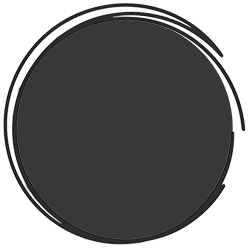
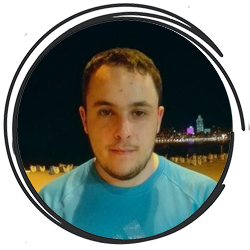
Codacy and updated img

diff --git a/src/containers/Home/components/ShareComponent/ShareComponent.js b/src/containers/Home/components/ShareComponent/ShareComponent.js
@@ -1,11 +1,11 @@
-import React, { useState } from 'react';
-import i18n from '../../../../i18n'
-import { Button, Select, MenuItem } from '@material-ui/core';
-import { useLDflexList, Value } from '@solid/react';
-import { ShareWrapper } from './ShareComponent.style';
+import React, { useState } from "react";
+import i18n from "../../../../i18n";
+import { Button, Select, MenuItem } from "@material-ui/core";
+import { useLDflexList, Value } from "@solid/react";
+import { ShareWrapper } from "./ShareComponent.style";
 
-import gestorPOD from '../../../../services/persistanceManagement';
-import { toast } from 'react-toastify';
+import gestorPOD from "../../../../services/persistanceManagement";
+import { toast } from "react-toastify";
 
 function ListFriends(props) {
 
@@ -13,7 +13,7 @@ function ListFriends(props) {
 
 
     function getFriends() {
-        const friends = useLDflexList('user.friends');
+        const friends = useLDflexList("user.friends");
         return friends;
     };
 
@@ -35,7 +35,7 @@ function ListFriends(props) {
 
 const listFriendsStyle = {
     minWidth: "200px",
-    marginRight: '10px',
+    marginRight: "10px",
 };
 
 export default class ShareComponent extends React.Component {
@@ -55,7 +55,7 @@ export default class ShareComponent extends React.Component {
     }
 
     setSelectedFriend(newSelectedFriend) {
-        this.setState({ selectedFriend: newSelectedFriend })
+        this.setState({ selectedFriend: newSelectedFriend });
     }
 
     buttonClicked() {
@@ -72,9 +72,9 @@ export default class ShareComponent extends React.Component {
             this.props.route === undefined ? <ShareWrapper id="share"></ShareWrapper> :
                 <ShareWrapper id="share">
                     <div>
-                        <p>{i18n.t('home.share_text')}</p>
+                        <p>{i18n.t("home.share_text")}</p>
                         <ListFriends setSelectedFriend={this.setSelectedFriend}></ListFriends>
-                        <Button onClick={this.buttonClicked} variant="contained" color="primary">{i18n.t('home.share_route')}</Button>
+                        <Button onClick={this.buttonClicked} variant="contained" color="primary">{i18n.t("home.share_route")}</Button>
                     </div>
                 </ShareWrapper>
         );

diff --git a/src/services/persistanceManagement.js b/src/services/persistanceManagement.js
@@ -123,9 +123,7 @@ export default {
         await fc.createFile(urlUser + "/" + idNoSpaces + ".gpx", route.gpx, "application/gpx+xml", {withAcl:false});
 
         for (var i = 0; i < route.images.length; i++) {
-            console.log(route.images);
             var image = route.images[i];
-            console.log(image)
             await fc.createFile(urlUser + "/" + idNoSpaces + "_" + i, image, image.type, {withAcl:false});
         }
 
@@ -351,15 +349,15 @@ export default {
 
         let idNoSpaces = oldRoute.id.replace(/\s/g, "_");
 
-	        let tempUrlUser = ((await auth.currentSession()).webId).toString();
+	    let tempUrlUser = ((await auth.currentSession()).webId).toString();
         
-        	// Here we check if the route is private to decide where to save it. By default is private.
-        	var urlUser = "";
-        	if (route.priv === true) {urlUser = tempUrlUser.slice(0, -16) + "/private/routes" ;}
-	       	 else {urlUser = tempUrlUser.slice(0, -16) + "/public/routes" ;}
-	        await fc.createFile(urlUser+"/"+ idNoSpaces + "/" + idNoSpaces+ ".json", basicDataJson, "application/json");
-	        await fc.createFile(urlUser +"/"+ idNoSpaces+ "/" + idNoSpaces +".gpx", route.gpx, "application/gpx+xml");
-    	},
+        // Here we check if the route is private to decide where to save it. By default is private.
+        var urlUser = "";
+        if (route.priv === true) {urlUser = tempUrlUser.slice(0, -16) + "/private/routes" ;}
+	    else {urlUser = tempUrlUser.slice(0, -16) + "/public/routes" ;}
+	    await fc.createFile(urlUser+"/"+ idNoSpaces + "/" + idNoSpaces+ ".json", basicDataJson, "application/json");
+	    await fc.createFile(urlUser +"/"+ idNoSpaces+ "/" + idNoSpaces +".gpx", route.gpx, "application/gpx+xml");
+    },
 
 	async downloadRoute(){
 		var route = await this.seeRoute(this.getID());

diff --git a/src/index.css b/src/index.css
@@ -7,11 +7,9 @@ body,
   padding: 0;
 }
 
-
 body {
   color: #000;
   font-size: 62.5%;
-  
 }
 
 p,
@@ -51,7 +49,7 @@ input[type='text'] {
 /**
 Temporary fix to overwrite and display the default style of the checkbox
 to prevent issues with the custom component and react/fontawesome missing icons
- */
+*/
 input[type="checkbox"] {
   appearance: checkbox;
   -webkit-appearance: checkbox;
@@ -59,11 +57,11 @@ input[type="checkbox"] {
   margin: 0 0 0 16px
 }
 input[type="checkbox"]::before {
-  content: none ;
+  content: none;
 }
 /**
 Ends temporary react/fontawesome fix
- */
+*/
 
 .link,
 .link-button {
@@ -140,11 +138,11 @@ form-group .select-role {
   color: #074166; 
 }
 
-.nav.nav > ul > li > a:hover, 
-.nav.nav > ul > li > a.active, 
+.nav.nav > ul > li > a:hover,
+.nav.nav > ul > li > a.active,
 .nav.nav > ul > li > button:hover,
 .nav.nav > ul > li > button.active {
-  color: #074166; 
+  color: #074166;
   background: rgba(7, 65, 102, 0.3);
 }
 
@@ -153,17 +151,17 @@ form-group .select-role {
   line-height: 60px;
   cursor: pointer;
   transition: all 0.5s ease-in-out;
-  border-left: 1px solid rgba(8, 53, 117, 0.1); 
+  border-left: 1px solid rgba(8, 53, 117, 0.1);
 }
 
 /*boton notificaciones*/
-  .fUwLnT:active,.fUwLnT:focus,.fUwLnT:hover,.fUwLnT.active{ 
-    background:rgba(7, 65, 102, 0.3); 
-    outline:none;
-  }
+.fUwLnT:active,.fUwLnT:focus,.fUwLnT:hover,.fUwLnT.active{ 
+  background:rgba(7, 65, 102, 0.3);
+  outline:none;
+}
 /* menu dropdown sobre el icono perfil*/
-  .jOLVKi button:hover{
-    background:rgba(7, 65, 102, 0.3); 
-    transition:all 0.5s ease-in-out;
-    color:#083575;
-  } 
+.jOLVKi button:hover{
+  background:rgba(7, 65, 102, 0.3);
+  transition:all 0.5s ease-in-out;
+  color:#083575;
+}

diff --git a/src/containers/Home/components/FormEditRoute/FormEditRoute.js b/src/containers/Home/components/FormEditRoute/FormEditRoute.js
@@ -23,7 +23,7 @@ export default class RouteForm extends React.Component {
     let fieldVal = event.target.value;
 
     //In case is the switch from Material library
-    if (fieldName === "priv") {fieldVal = !event.target.checked}
+    if (fieldName === "priv") {fieldVal = !event.target.checked};
 
     this.setState({ form: { ...this.state.form, [fieldName]: fieldVal } });
   }
@@ -87,19 +87,19 @@ export default class RouteForm extends React.Component {
 
           <Form.Group controlId="formDescriptionRoute">
             <Form.Label>{i18n.t("form.description_edit")}</Form.Label>
-	    <Form.Label>Actual: {gestorPOD.loadDescrip()}</Form.Label>
+	          <Form.Label>Actual: {gestorPOD.loadDescrip()}</Form.Label>
             <Form.Control type="text" name="description" placeholder={i18n.t("form.enter_description_edit")}
               defaultValue={this.state.form.description_edit} onChange={this.handleChange} />
           </Form.Group>
 
           <Form.Group controlId="formPrivacyRoute">
-          <Form.Label>{i18n.t("form.publicRoute")}</Form.Label>
-	  <Form.Label>Actual: {gestorPOD.loadPriv()}</Form.Label>
+            <Form.Label>{i18n.t("form.publicRoute")}</Form.Label>
+	          <Form.Label>Actual: {gestorPOD.loadPriv()}</Form.Label>
           <Switch
             checked={this.state.priv}
             onChange={this.handleChange}
             name="priv"
-            inputProps={{ 'aria-label': 'secondary checkbox' }}
+            inputProps={{ "aria-label": "secondary checkbox" }}
           />
           </Form.Group>
 

diff --git a/src/containers/Home/components/Slider/slider.component.js b/src/containers/Home/components/Slider/slider.component.js
@@ -22,12 +22,12 @@ const Slider = (props) => {
 
     const showModal = (x) => {
         setModal(true);
-        setActualImage(URL.createObjectURL(x))
+        setActualImage(URL.createObjectURL(x));
     }
 
     const onclose = (e) => {
         setModal(false);
-    }
+    };
 
     return (images === undefined ? <SliderWrapper></SliderWrapper> :
         <SliderWrapper>
@@ -37,14 +37,14 @@ const Slider = (props) => {
             <ImageList>
                 {images.slice(count, count + 5).map((image) =>
                     <ImageContainer>
-                        <ImageWrapper src={URL.createObjectURL(image)} alt="imagen" onClick={e => {showModal(image)}}/>
+                        <ImageWrapper src={URL.createObjectURL(image)} alt="imagen" onClick={e => {showModal(image);}}/>
                     </ImageContainer>
                 )}
             </ImageList>
             {images.length > 5 &&
                 <button id="right" onClick={clickRight}>&gt;</button>
             }
-            <Modal show={modal} image={actualImage} onClick={e => {onclose(e)}} >
+            <Modal show={modal} image={actualImage} onClick={e => {onclose(e);}} >
             </Modal>
         </SliderWrapper>
     );

diff --git a/src/containers/Home/home.component.js b/src/containers/Home/home.component.js
@@ -1,6 +1,5 @@
 import React, { Suspense } from "react";
 import { Button } from "@material-ui/core";
-//import { Uploader } from "@inrupt/solid-react-components";
 import { useTranslation } from "react-i18next";
 import manejadorPODs from "../../services/persistanceManagement";
 import RouteList from "./components/RouteList";
@@ -14,11 +13,11 @@ import {
   RouteMap,
   RouteInfo,
   RouteHead
-} from './home.style';
-import Slider from './components/Slider'
-import ShareComponent from './components/ShareComponent/ShareComponent'
+} from "./home.style";
+import Slider from "./components/Slider";
+import ShareComponent from "./components/ShareComponent/ShareComponent";
 
-const Map = React.lazy(() => import('../../Map'));
+const Map = React.lazy(() => import("../../Map"));
 
 function loadMap(props, t) {
   return (
@@ -30,7 +29,7 @@ function loadMap(props, t) {
       </RouteMap>
       <RouteInfo>
         <RouteHead>
-          <h2> {t('home.information')} </h2>
+          <h2> {t("home.information")} </h2>
           <ShareComponent route = {props.route}></ShareComponent>
         </RouteHead>
         <p>

diff --git a/src/containers/Friends/components/FriendItem/friendItem.component.js b/src/containers/Friends/components/FriendItem/friendItem.component.js
@@ -1,9 +1,9 @@
 import React from "react";
-import {Name, Link, useLDflexList} from '@solid/react';
+import {Name, Link, useLDflexList} from "@solid/react";
 import { useTranslation } from "react-i18next";
-import {Avatar, CircularProgress, ListItemText, ListItemIcon, ListItem, ListItemAvatar} from '@material-ui/core';
-import AvatarGroup from '@material-ui/lab/AvatarGroup';
-import FriendAvatar from "../FriendAvatar"
+import {Avatar, CircularProgress, ListItemText, ListItemIcon, ListItem, ListItemAvatar} from "@material-ui/core";
+import AvatarGroup from "@material-ui/lab/AvatarGroup";
+import FriendAvatar from "../FriendAvatar";
 import { StylesProvider } from "@material-ui/core/styles";
 
 const FriendItem = ({friendID, friendName, imageSrc,friendKnows, pending}) => {
@@ -42,5 +42,5 @@ const FriendItem = ({friendID, friendName, imageSrc,friendKnows, pending}) => {
             />
         </ListItem>
     );
-}
+};
 export default FriendItem; 

diff --git a/src/Map.js b/src/Map.js
@@ -78,12 +78,12 @@ export default class RouteMap extends React.Component {
           parseElements: ["track", "route", "waypoint"],
           joinTrackSegments: false
         },
-      }).on('addpoint', function(e) {
-        if (e.element.getElementsByTagName('name')[0] != null) {
+      }).on("addpoint", function(e) {
+        if (e.element.getElementsByTagName("name")[0] != null) {
           var marker = e.point;
-          marker.bindPopup(e.element.getElementsByTagName('name')[0].innerHTML);
+          marker.bindPopup(e.element.getElementsByTagName("name")[0].innerHTML);
         }
-      }).on('loaded', ((e) => {var gpx = e.target;
+      }).on("loaded", ((e) => {var gpx = e.target;
                                this.refs.mapInstance.leafletElement.fitBounds(gpx.getBounds());}))
                                .addTo(this.refs.mapInstance.leafletElement);
 

diff --git a/src/components/Utils/index.js b/src/components/Utils/index.js
@@ -2,29 +2,20 @@ import ImageBackground from "./ImageBackground";
 import CenterContainer from "./CenterContainer";
 import Panel from "./Panel";
 import Dropdown from "./Dropdown";
-import RadioButton from "./Radiobutton";
 import Badge from "./Badge";
 import Loader from "./Loader";
 import ToasterNotification from "./ToasterNotification";
-import Input from "./Input";
 import LanguageDropdown from "./LanguageDropdown";
 import Toaster from "./ToasterNotification/toaster.component";
-import Select from "./Select";
-import ConfirmationDialog from "./ConfirmationDialog";
-import Labeled from "./Labeled";
 
 export {
   ImageBackground,
   CenterContainer,
-  ConfirmationDialog,
   ToasterNotification,
   Panel,
   Dropdown,
-  RadioButton,
+  Badge,
   Loader,
-  Input,
   LanguageDropdown,
-  Toaster,
-  Select,
-  Labeled
+  Toaster
 };

diff --git a/src/containers/Profile/profile.container.js b/src/containers/Profile/profile.container.js
@@ -31,7 +31,7 @@ type Props = { webId: String };
 const Profile = ({ webId }: Props) => {
   const { t } = useTranslation();
   const [isLoading/*, setIsLoading*/] = useState(false);
-  const email = useLDflexValue('user.inbox') || 'unknown';
+  const email = useLDflexValue("user.inbox") || "unknown";
  
 /*
   const onError = e => {
@@ -69,7 +69,7 @@ const Profile = ({ webId }: Props) => {
             <FormRenderContainer>
             <h2><Value src="user.name"></Value></h2>
               <WebId>
-                <p>{t('navBar.profile')}:<Link href="user">{`${webId}`}</Link></p>
+                <p>{t("navBar.profile")}:<Link href="user">{`${webId}`}</Link></p>
                 <p>Inbox:<Link href="user.inbox">{`${email}`}</Link></p>
               </WebId>
             </FormRenderContainer>

diff --git a/src/containers/Home/components/RouteList.js b/src/containers/Home/components/RouteList.js
@@ -17,7 +17,7 @@ export default class RouteList extends React.Component {
         this.setState( {loading: true }, async () => {
             await gestorPOD.seeRoutes().then((routes) => this.setState( {routes: Array.from(routes)}) );
             await gestorPOD.seeRoutes(false).then((routes) => this.setState( {publicRoutes: Array.from(routes)}) );
-            this.setState({loading: false})
+            this.setState({loading: false});
         });
     }
 

diff --git a/src/index.js b/src/index.js
@@ -11,7 +11,6 @@ ReactDOM.render(
   </ErrorBoundary>,
   document.getElementById("root")
 );
-
 // If you want your app to work offline and load faster, you can change
 // unregister() to register() below. Note this comes with some pitfalls.
 // Learn more about service workers: http://bit.ly/CRA-PWA
